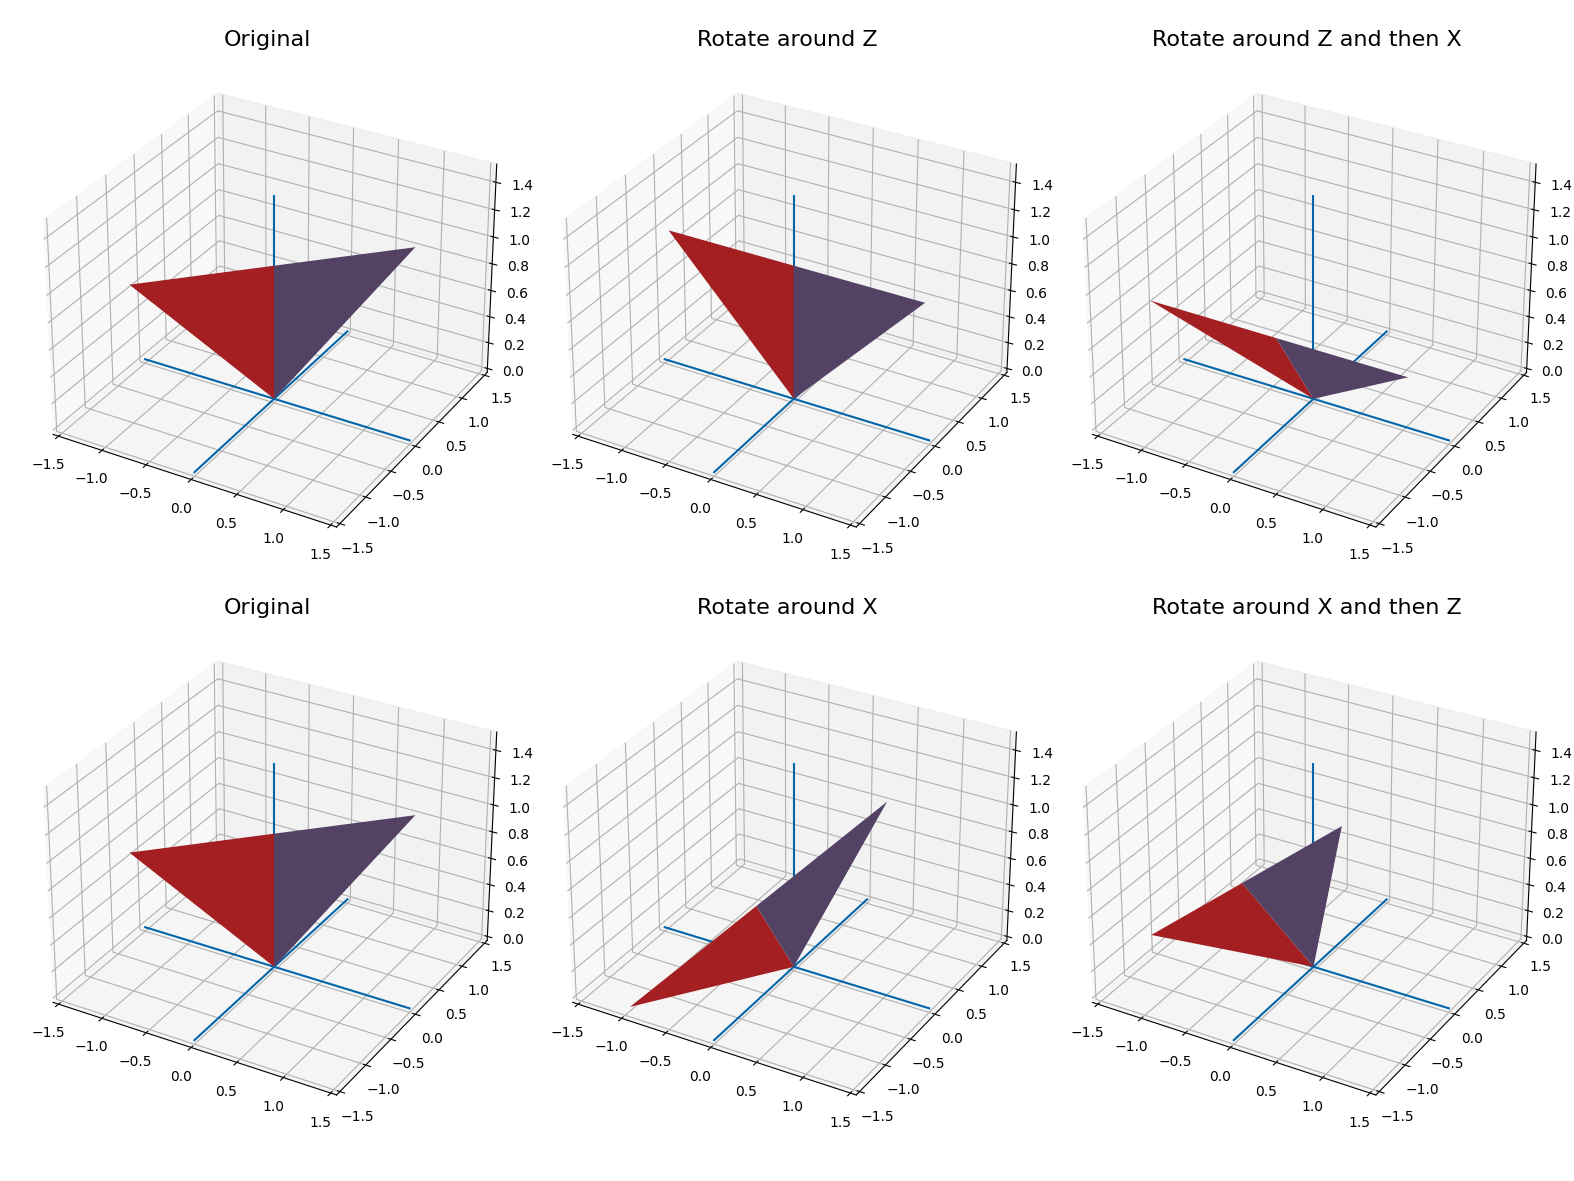
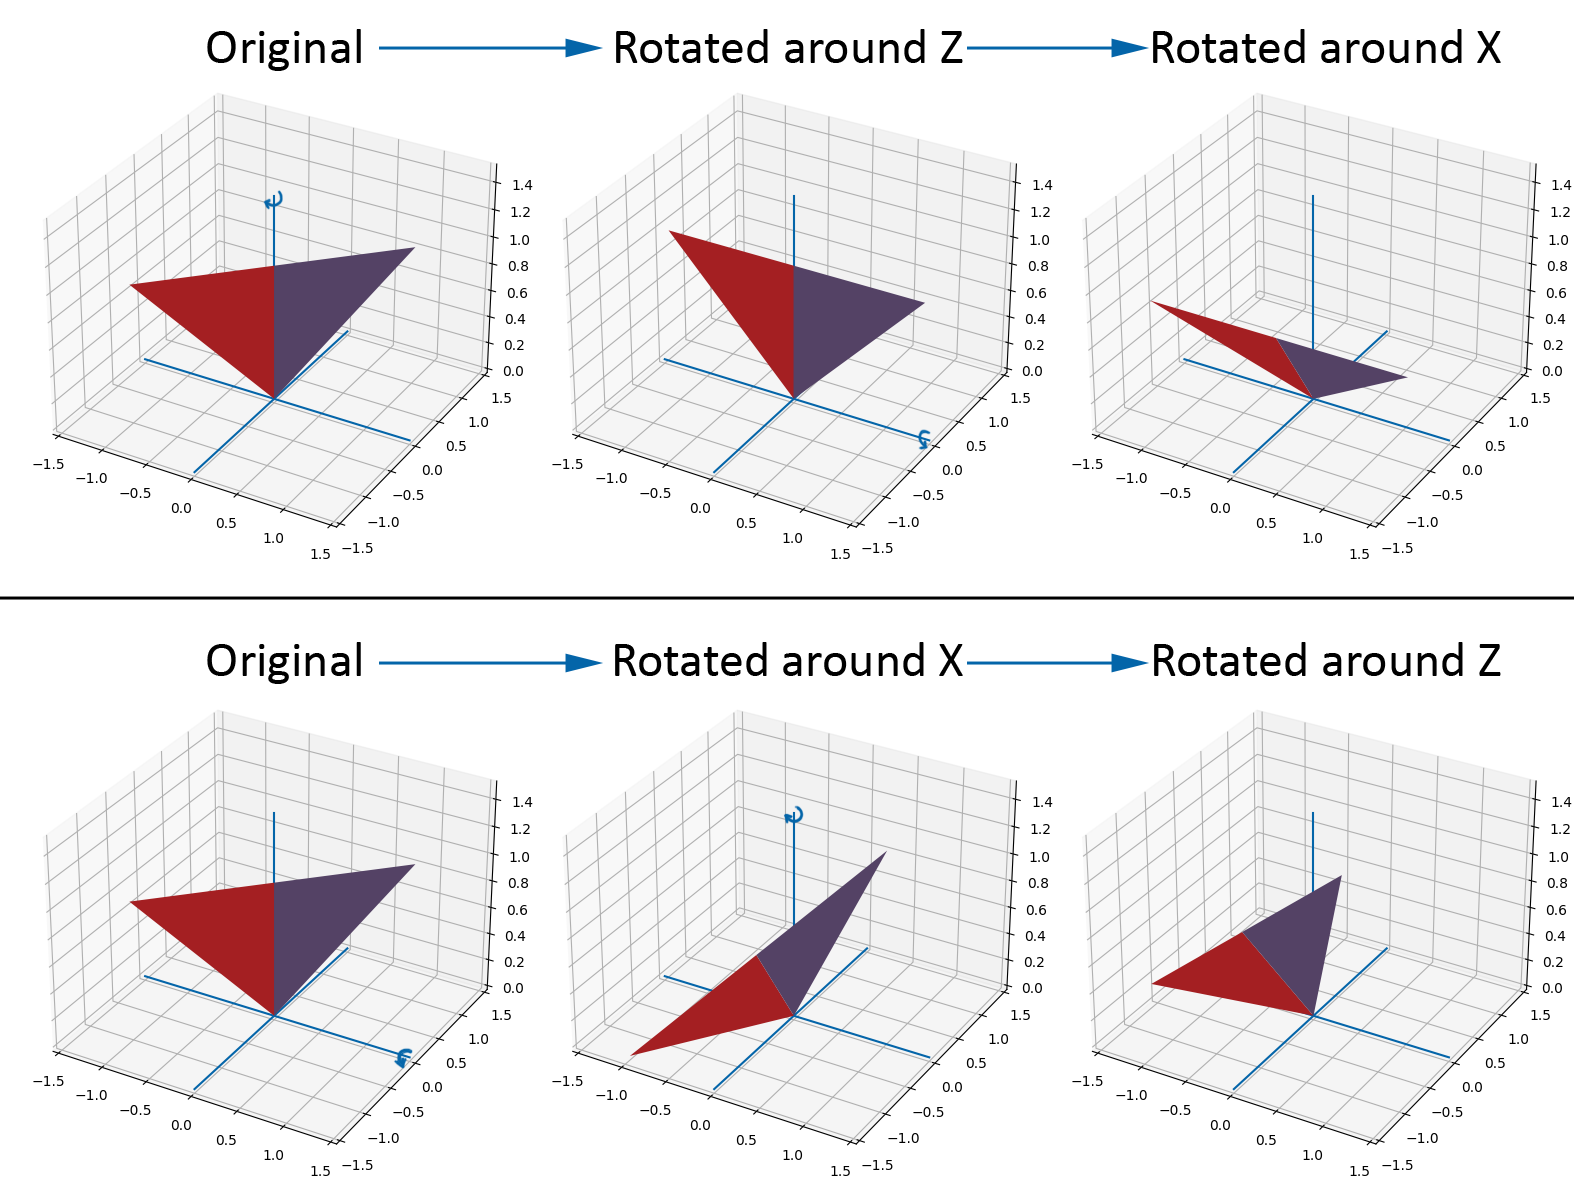
Working on docu

Changed region(s): [[0.0311, 0.5487, 1.0, 0.9754], [0.0, 0.4877, 1.0, 0.5182], [0.1245, 0.0305, 0.9651, 0.061]]

diff --git a/01_Documentation/content/grundlagen.tex b/01_Documentation/content/grundlagen.tex
@@ -4,7 +4,7 @@
 The following chapter describes methods and technologies that are used within this thesis.
 \section{Mathematics for Rotation and Translation}
 \label{sec:LinAlgRotation}
-Augmented reality relies on having accurate positional and angular information, to estimate the requred size and warp of a virtual object that is projected into the real world. To assist the positional tracking, a MEMS-module containing a gyroscope and an accelerometer provides rotation and acceleration information to the system. 
+Augmented reality relies on having accurate positional and angular information to estimate the required size and warp of a virtual object projected into the real world. A MEMS module containing a gyroscope and an accelerometer provides rotation and acceleration information to the system to assist the positional tracking. 
 \subsection{Euler Rotations and Linear Algebra}
 A common way to calculate rotations and translations are matrix-vector multiplications. The standard matrices for rotating with the angle $\phi$ around $X$, $Y$ and $Z$ are shown in the following:
 \begin{equation*}
@@ -29,7 +29,7 @@ A common way to calculate rotations and translations are matrix-vector multiplic
     0 & 0 & 1
     \end{bmatrix} 
 \end{equation*}
-A combination of the three matrices leads to a rotation matrix with a rotation axis that is not strictly bound to $X$, $Y$ or $Z$. A matrix multiplication is not commutative, so the order of the multiplications matters. In the following example, the vector would be rotated first around $X$, then $Y$ and around $Z$ in the end - in the equation from right to left.
+A combination of the three matrices leads to a rotation matrix with a rotation axis that is not strictly bound to $X$, $Y$, or $Z$. Matrix multiplication is not commutative, so the order of the multiplications matters. In the following example, the vector gets rotated first around $X$, then $Y$, and around $Z$ in the end. This chain of matrix operations is read from right to left in the equation.
 \begin{equation*}
     A_{rot} = 
     \begin{bmatrix}
@@ -89,7 +89,7 @@ To avoid using an inhomogenous linear system for moving an object, a fourth dime
     1
     \end{pmatrix}
 \end{equation*}
-To combine the rotation matrix $A_{rot}$ with the translation matrix $A_{trans}$ gets placed top-left into the 4x4 unit matrix. Now, the rotation matrix also being a 4x4 matrix, rotations and translations can be chained up following the common laws of linear algebra.
+To combine the rotation matrix with the translation matrix, the 3x3 rotation matrix gets placed top-left into the 4x4 unit matrix. Now, the rotation matrix also being a 4x4 matrix, rotations and translations can be chained up following the common laws of linear algebra. Chaining up translations and rotations allows moving the rotation axis for an object.
 \begin{equation*}
     \begin{pmatrix}
     x'  \\
@@ -112,4 +112,65 @@ a_{2,0} & a_{2,1} & a_{2,2} & 0 \\
     1
     \end{pmatrix}
 \end{equation*}
-The dependency on the order of the rotations poses a problem: The values returned by a gyroscope would need to be applied all at once and not one after another. 
+The dependency on the order of the rotations poses a problem visualized in image \ref{im:EulerRotation}: The values returned by a gyroscope would need to be applied all at once and not one after another. 
+\begin{figure}[H]
+	\centering
+		\includegraphics[width=1.0\textwidth]{images/euler_rotation.png}
+	\caption{Euler rotations are dependent on the order of the individual rotations. Rotating around X and then Z results in a different outcome, than first rotating around Z and then X.}
+	\label{im:EulerRotation}
+\end{figure}
+\subsection{Standard Vulkan Coordinate System}
+In Vulkan, every vertex coordinate of a 3D rendered object gets mapped to the nearest pixel in the viewport window. This vertex mapping is done in multiple steps from "view coordinates" via "clip coordinates" towards "normalized device coordinates" to the "pixel coordinates".\\
+A 3D object is a cloud of vertex coordinates described by a list three-dimensional vectors $\overrightarrow{v_{v}} = (x_{v},y_{v},z_{v})$ (the subscript $v$ denotes the "view coordinates"). These coordinates usually do not contain data regarding the whole object's scale, position, and rotation in 3D space - this information is added with matrices in the shader step.\\
+Vulkan expects the output of the shader step to be in clip coordinates. Clip coordinates are four-dimensional vectors $\overrightarrow{v_{c}} = (x_{c},y_{c},z_{c},w_{c})$ (the subscript $c$ denotes the "clip coordinates") and the result of a matrix multiplication operation.\\
+\begin{equation*}  
+    \overrightarrow{v_{c}} = A \cdot  \overrightarrow{v_{v}}
+\end{equation*}
+\begin{equation*}
+    \begin{pmatrix}
+    x_{c}  \\
+    y_{c}  \\
+    z_{c}  \\
+    w_{c}
+    \end{pmatrix} 
+    = 
+    \begin{bmatrix}
+a_{0,0} & a_{0,1} & a_{M 0,2} &  a_{0,3} \\
+a_{1,0} & a_{1,1} & a_{M 1,2} &  a_{1,3} \\
+a_{2,0} & a_{2,1} & a_{M 2,2} &  a_{2,3} \\
+a_{3,0} & a_{3,1} & a_{M 3,2} & a_{3,3}
+\end{bmatrix}
+\cdot 
+\begin{pmatrix}
+    x_{v}  \\
+    y_{v}  \\
+    z_{v}  \\
+    1
+    \end{pmatrix}
+\end{equation*}
+Generally, three combined matrix multiplications describe how a 3D object is rendered – the model matrix, the view matrix, and an added projection matrix. The model matrix ($A_{Model}$) defines the scale, rotation and position of the 3D object and is a standard 4x4 matrix as explained in section \ref{sec:LinAlgRotation}.\\ 
+
+The view matrix ($A_{View}$) is also is a rotation and translation matrix, but describes the position and direction of the viewport camera (or eye). Rotating the camera rotates the rendered virtual space, which indirectly moves and turns the models in the viewport. The linmath-library offers the "4x4\_look\_at" function that calculates the view matrix based on camera position, a viewing angle, and the information regarding the "upwards" direction.\\
+The projection matrix ($A_{Projection}$)  is not a rotation and translation matrix besides the model and the view matrix. As its name suggests, the projection matrix reduces the vertex' 3d coordinates to the viewport plane by projecting them onto a virtual screen. By taking a field of view angle, the projection matrix allows camera distortion. The linmath-library offers the "4x4\_perspective" function that calculates the projection matrix based on a given field of view angle 
+Within the vertex shader, these three matrices are chained to perform the desired transformation.
+\begin{equation*}  
+    A = A_{Projection} \cdot A_{View} \cdot A_{Model}
+\end{equation*}
+By division of the clip coordinate components $x_{c}$, $y_{c}$ and $z_{c}$ with $w_{c}$, Vulkan itself calculates the normalized device coordinates $\overrightarrow{v_{NDC}} = (x_{NDC}, y_{NDC}, z_{NDC})$.
+\begin{equation*}
+    \begin{pmatrix}
+    x_{NDC}  \\
+    y_{NDC}  \\
+    z_{NDC}  \\
+    \end{pmatrix} 
+    =
+    \begin{pmatrix}
+        \frac{x_{c}}{w_{c}}  \\
+        \frac{y_{c}}{w_{c}}  \\
+        \frac{z_{c}}{w_{c}}  \\        
+        \end{pmatrix}     
+\end{equation*}
+The transformation to the pixel coordinates are also done by Vulkan without requiring any action by the developer. The only noticable detail is the alignment of the normalized device coordinates. On the viewport surface, the point $(0 / 0)$ is located in the center. Top left is $(-1 / -1)$, top right is $(1 / -1)$, bottom left is $(-1 / 1)$ and bottom right is $(1 / 1)$.
+
+\subsection{Rotation with Quaternions}
+Quaternions - also known as "Hamilton Numbers" - are the three dimensional equivalent to complex numbers. Analogue to complex numbers, quaternions also consist of a real part, but add three imaginary parts $\textbf{i}$, $\textbf{j}$ and $\textbf{k}$. Most often, quaternions get represented in the form $a+b\textbf{i}+c\textbf{j}+d\textbf{k}$ or a four dimensional vector $(a, b, c, d)$

diff --git a/01_Documentation/doc.tex b/01_Documentation/doc.tex
@@ -27,12 +27,15 @@
 \usepackage{array}
 \usepackage{float}
 \usepackage{pbox}
-
+\usepackage{caption}
 \ifdefined\USEGLOSSARIES
 	\usepackage[acronyms]{glossaries}
 	\makeglossaries
 	\include{glossaries/glossaries}
 \fi
+
+\DeclareCaptionFormat{myformat}{#1#2#3\hrulefill}
+\captionsetup[figure]{format=myformat}
 
 \begin{document}
 %How the hyperlinks are shown, remove this or change it if you want the colorful links
